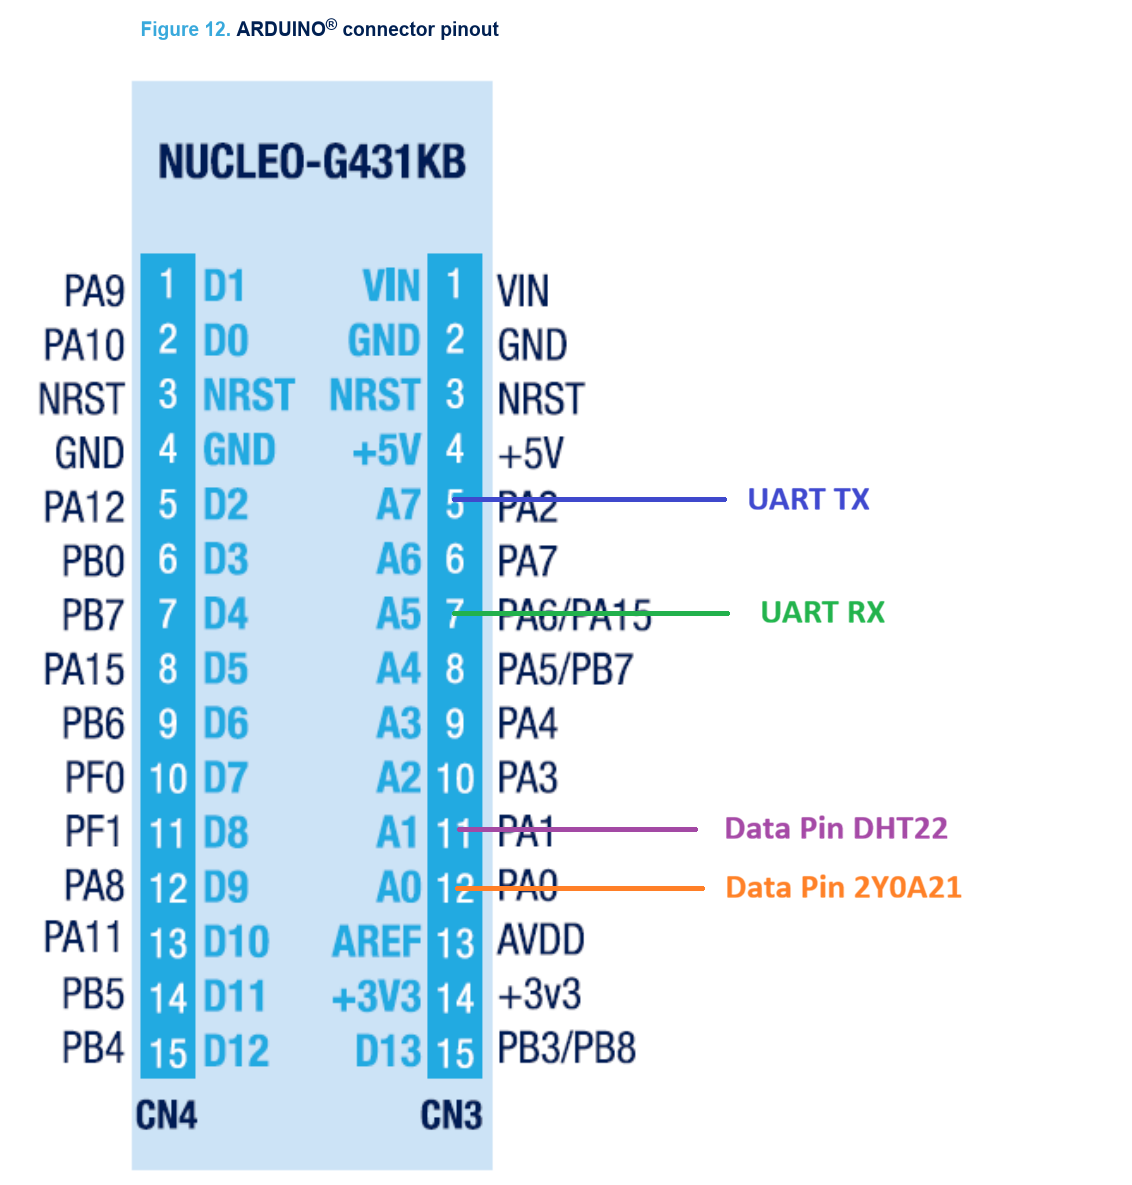
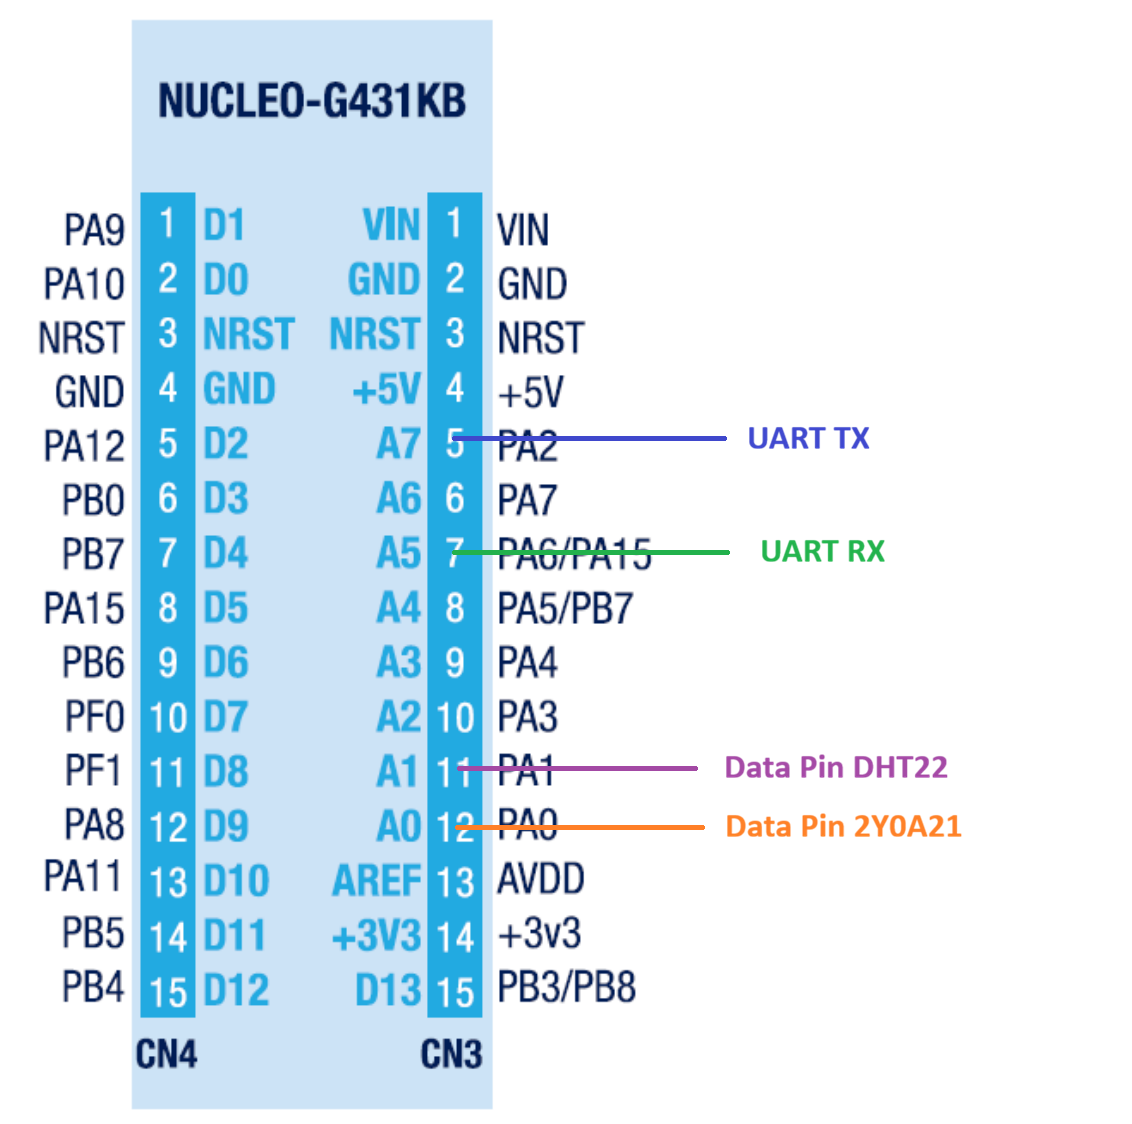
update readme

Changed region(s): [[0.0309, 0.0, 0.8657, 0.9653]]

diff --git a/UART.md b/UART.md
@@ -1,0 +1,39 @@
+# STM32G431KB
+
+[Documentation du STM32G431KB](https://www.farnell.com/datasheets/3182254.pdf)
+
+Rappel des opérateurs binaires
+* ``&=`` applique un masque AND. Par exemple ``0xE &= 0x3`` donne ``0x2``.
+* ``|=`` applique un masque OR. Par exemple ``0xE |= 0x3`` donne ``0xF``.
+* ``^=`` applique un masque XOR. Par exemple ``0xE ^= 0x3`` donne ``0xD``.
+* ``~`` inverse un nombre. Par exemple, ``0xE &= ~(0x3)`` donne ``0xB``.
+* ``<<`` fait un shift de N bits vers la gauche. Par exemple, ``0x2000 |= (0x1 << 2 )`` renvoie ``0x2100``. 
+
+# UART
+
+Bus utilisé: USART2
+
+## Setup du bus UART
+
+### Général
+
+* Il faut que les horloges des ``GPIOA`` et ``GPIOB`` soient activées.
+* On active l'horloge du USART2 dans le registre ``RCC_APB1ENR1``
+* On définit la baudrate dnas le registre ``USART_BRR``
+* On active l'USART dans le registre ``USART_CR1``
+
+### Transmission (TX)
+
+* On configure notre pin de transmission dans le registre ``GPIOx_MODER``. On le setup en Alternate.
+* On sélectionne ensuite notre fonction alternate dans le registre ``GPIOx_AFRH`` (noté ``AFR[0]`` en C) pour les pins 0 à 7, et ``GPIOx_AFRL`` (noté ``AFR[1]`` en C) pour les pins 8 à 15.
+* On active la transmission dans le registre ``USART_CR1``
+* Les flags de statut sont dans le registre ``USART_ISR``. On peut observer le flag ``TEACK`` pour savoir s'il est bien initialisé, et le flag ``TXFNF`` pour savoir si on peut transmettre des données.
+* Pour envoyer des données, il faut les écrire dans le registre ``USART_TDR``
+
+### Réception (RX)
+
+* On configure notre pin de réception dans le registre ``GPIOx_MODER``. On le setup en Alternate.
+* On sélectionne ensuite notre fonction alternate dans le registre ``GPIOx_AFRH`` (noté ``AFR[0]`` en C) pour les pins 0 à 7, et ``GPIOx_AFRL`` (noté ``AFR[1]`` en C) pour les pins 8 à 15.
+* On active la réception dans le registre ``USART_CR1``
+* Les flags de statut sont dans le registre ``USART_ISR``. On peut observer le flag ``REACK`` pour savoir s'il est bien initialisé, et le flag ``RXFNE`` pour savoir si des données ont été reçues.
+* Les données reçues seront dans le registre ``USART_RDR``